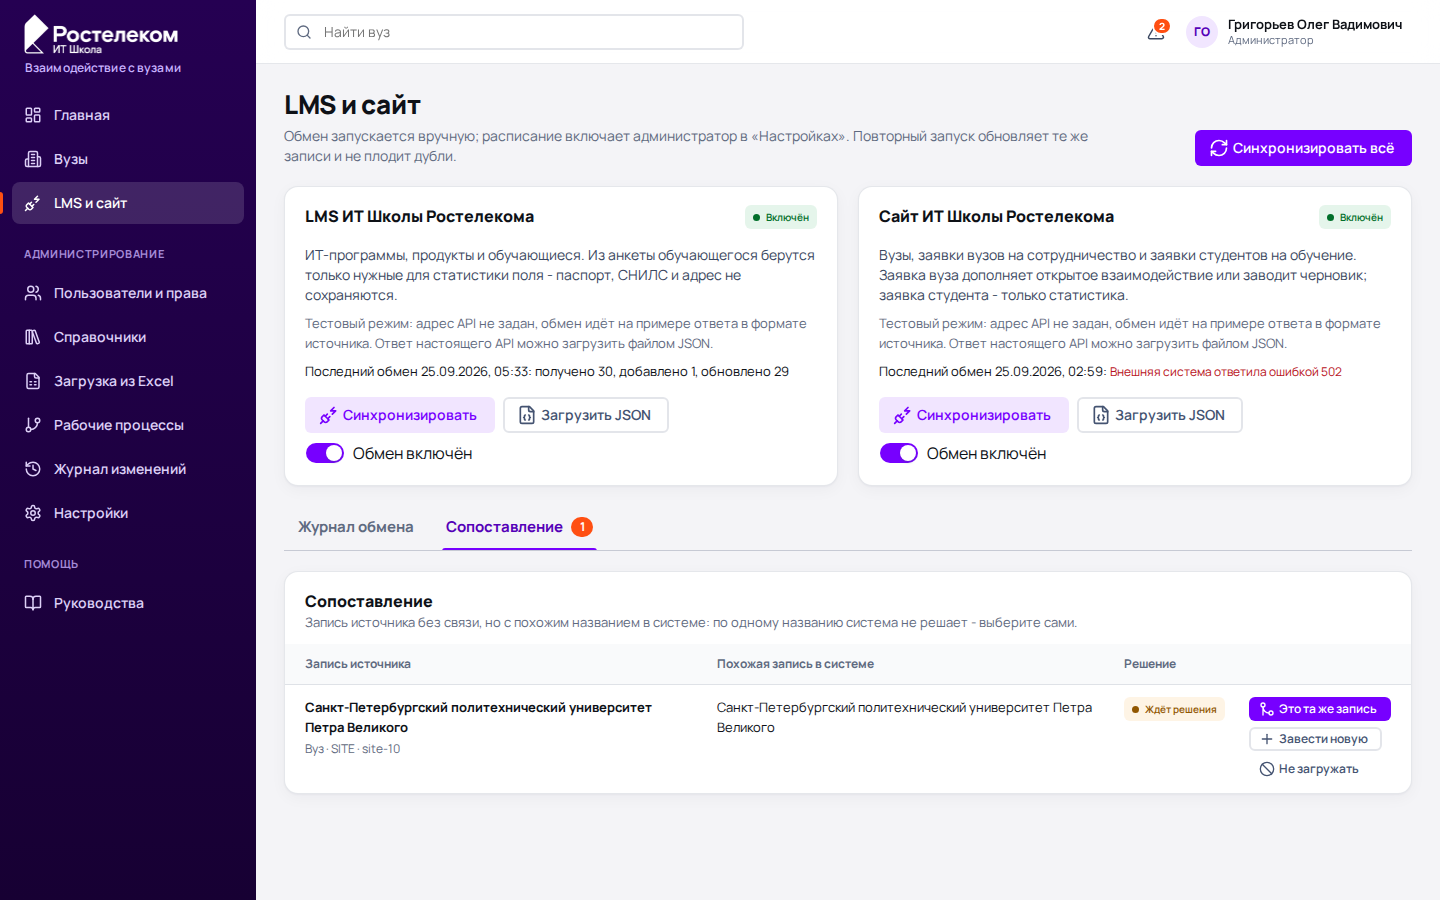
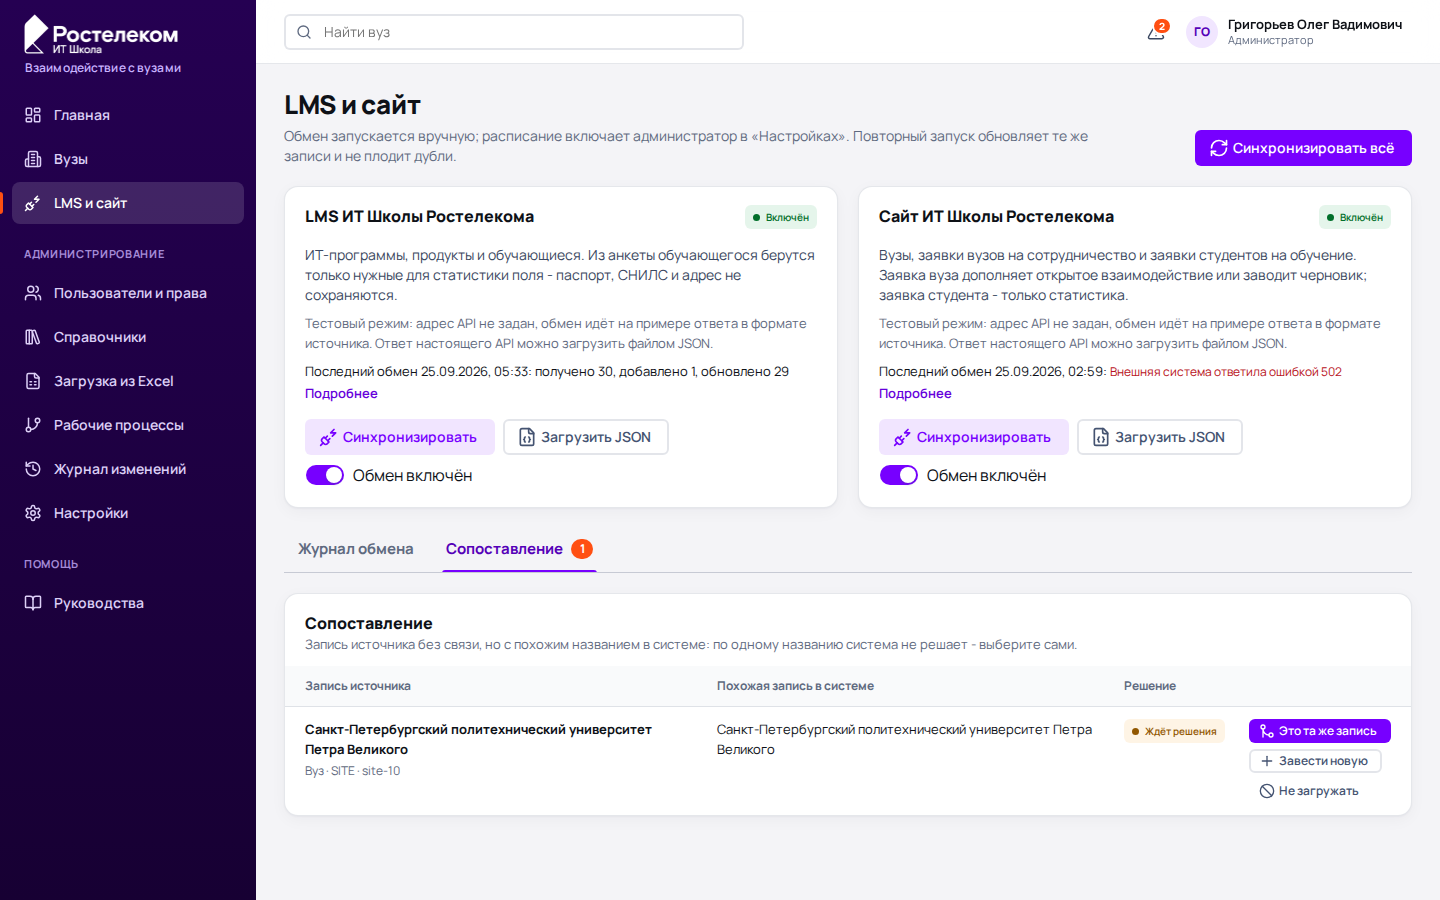
fix(web): «Подробнее» у последнего обмена в карточках LMS и сайта
Строка «Последний обмен» в карточке источника - не длиннее двух строк:
длинное сообщение об ошибке больше не растягивает обе карточки (они
одной высоты) и не отрывает кнопки соседней карточки от её текста.
Полный текст, ошибки по записям и пояснения открывает «Подробнее» -
та же карточка запуска, что и в журнале обмена.

Снимки экранов руководств с этим разделом пересняты.

Changed region(s): [[0.1875, 0.6533, 0.9688, 0.9022], [0.1875, 0.4356, 0.4688, 0.6533], [0.5938, 0.4356, 0.875, 0.56]]

diff --git a/frontend/src/pages/IntegrationsPage.tsx b/frontend/src/pages/IntegrationsPage.tsx
@@ -403,10 +403,24 @@ export default function IntegrationsPage() {
                       : `Адрес API: ${source.base_url}`}
                   </p>
                   {last && (
-                    <p style={{ fontSize: 13 }}>
-                      Последний обмен {formatDateTime(last.started_at)}:{" "}
-                      {last.status === "failed" ? <span className="field__error">{last.error_message}</span> : describeRun(last)}
-                    </p>
+                    <div className="source-card__last">
+                      <p className="source-card__summary">
+                        Последний обмен {formatDateTime(last.started_at)}:{" "}
+                        {last.status === "failed" ? (
+                          <span className="field__error">{last.error_message}</span>
+                        ) : (
+                          describeRun(last)
+                        )}
+                      </p>
+                      <button
+                        type="button"
+                        className="link-btn"
+                        aria-label={`Подробнее о последнем обмене: ${source.name}`}
+                        onClick={() => setRunId(last.id)}
+                      >
+                        Подробнее
+                      </button>
+                    </div>
                   )}
                   <div className="row source-card__actions">
                     {can("sync_integrations") && (

diff --git a/frontend/src/styles/app.css b/frontend/src/styles/app.css
@@ -650,6 +650,24 @@ p {
   padding-top: 8px;
 }
 
+/* Последний обмен - не длиннее двух строк, чтобы длинное сообщение
+   об ошибке не растягивало обе карточки. Полный текст, ошибки по записям
+   и пояснения - по «Подробнее», в карточке запуска. */
+.source-card__last {
+  display: flex;
+  flex-direction: column;
+  align-items: flex-start;
+  gap: 2px;
+  font-size: 13px;
+}
+
+.source-card__summary {
+  display: -webkit-box;
+  overflow: hidden;
+  -webkit-box-orient: vertical;
+  -webkit-line-clamp: 2;
+}
+
 .kpi-row {
   display: grid;
   grid-template-columns: repeat(auto-fit, minmax(190px, 1fr));
